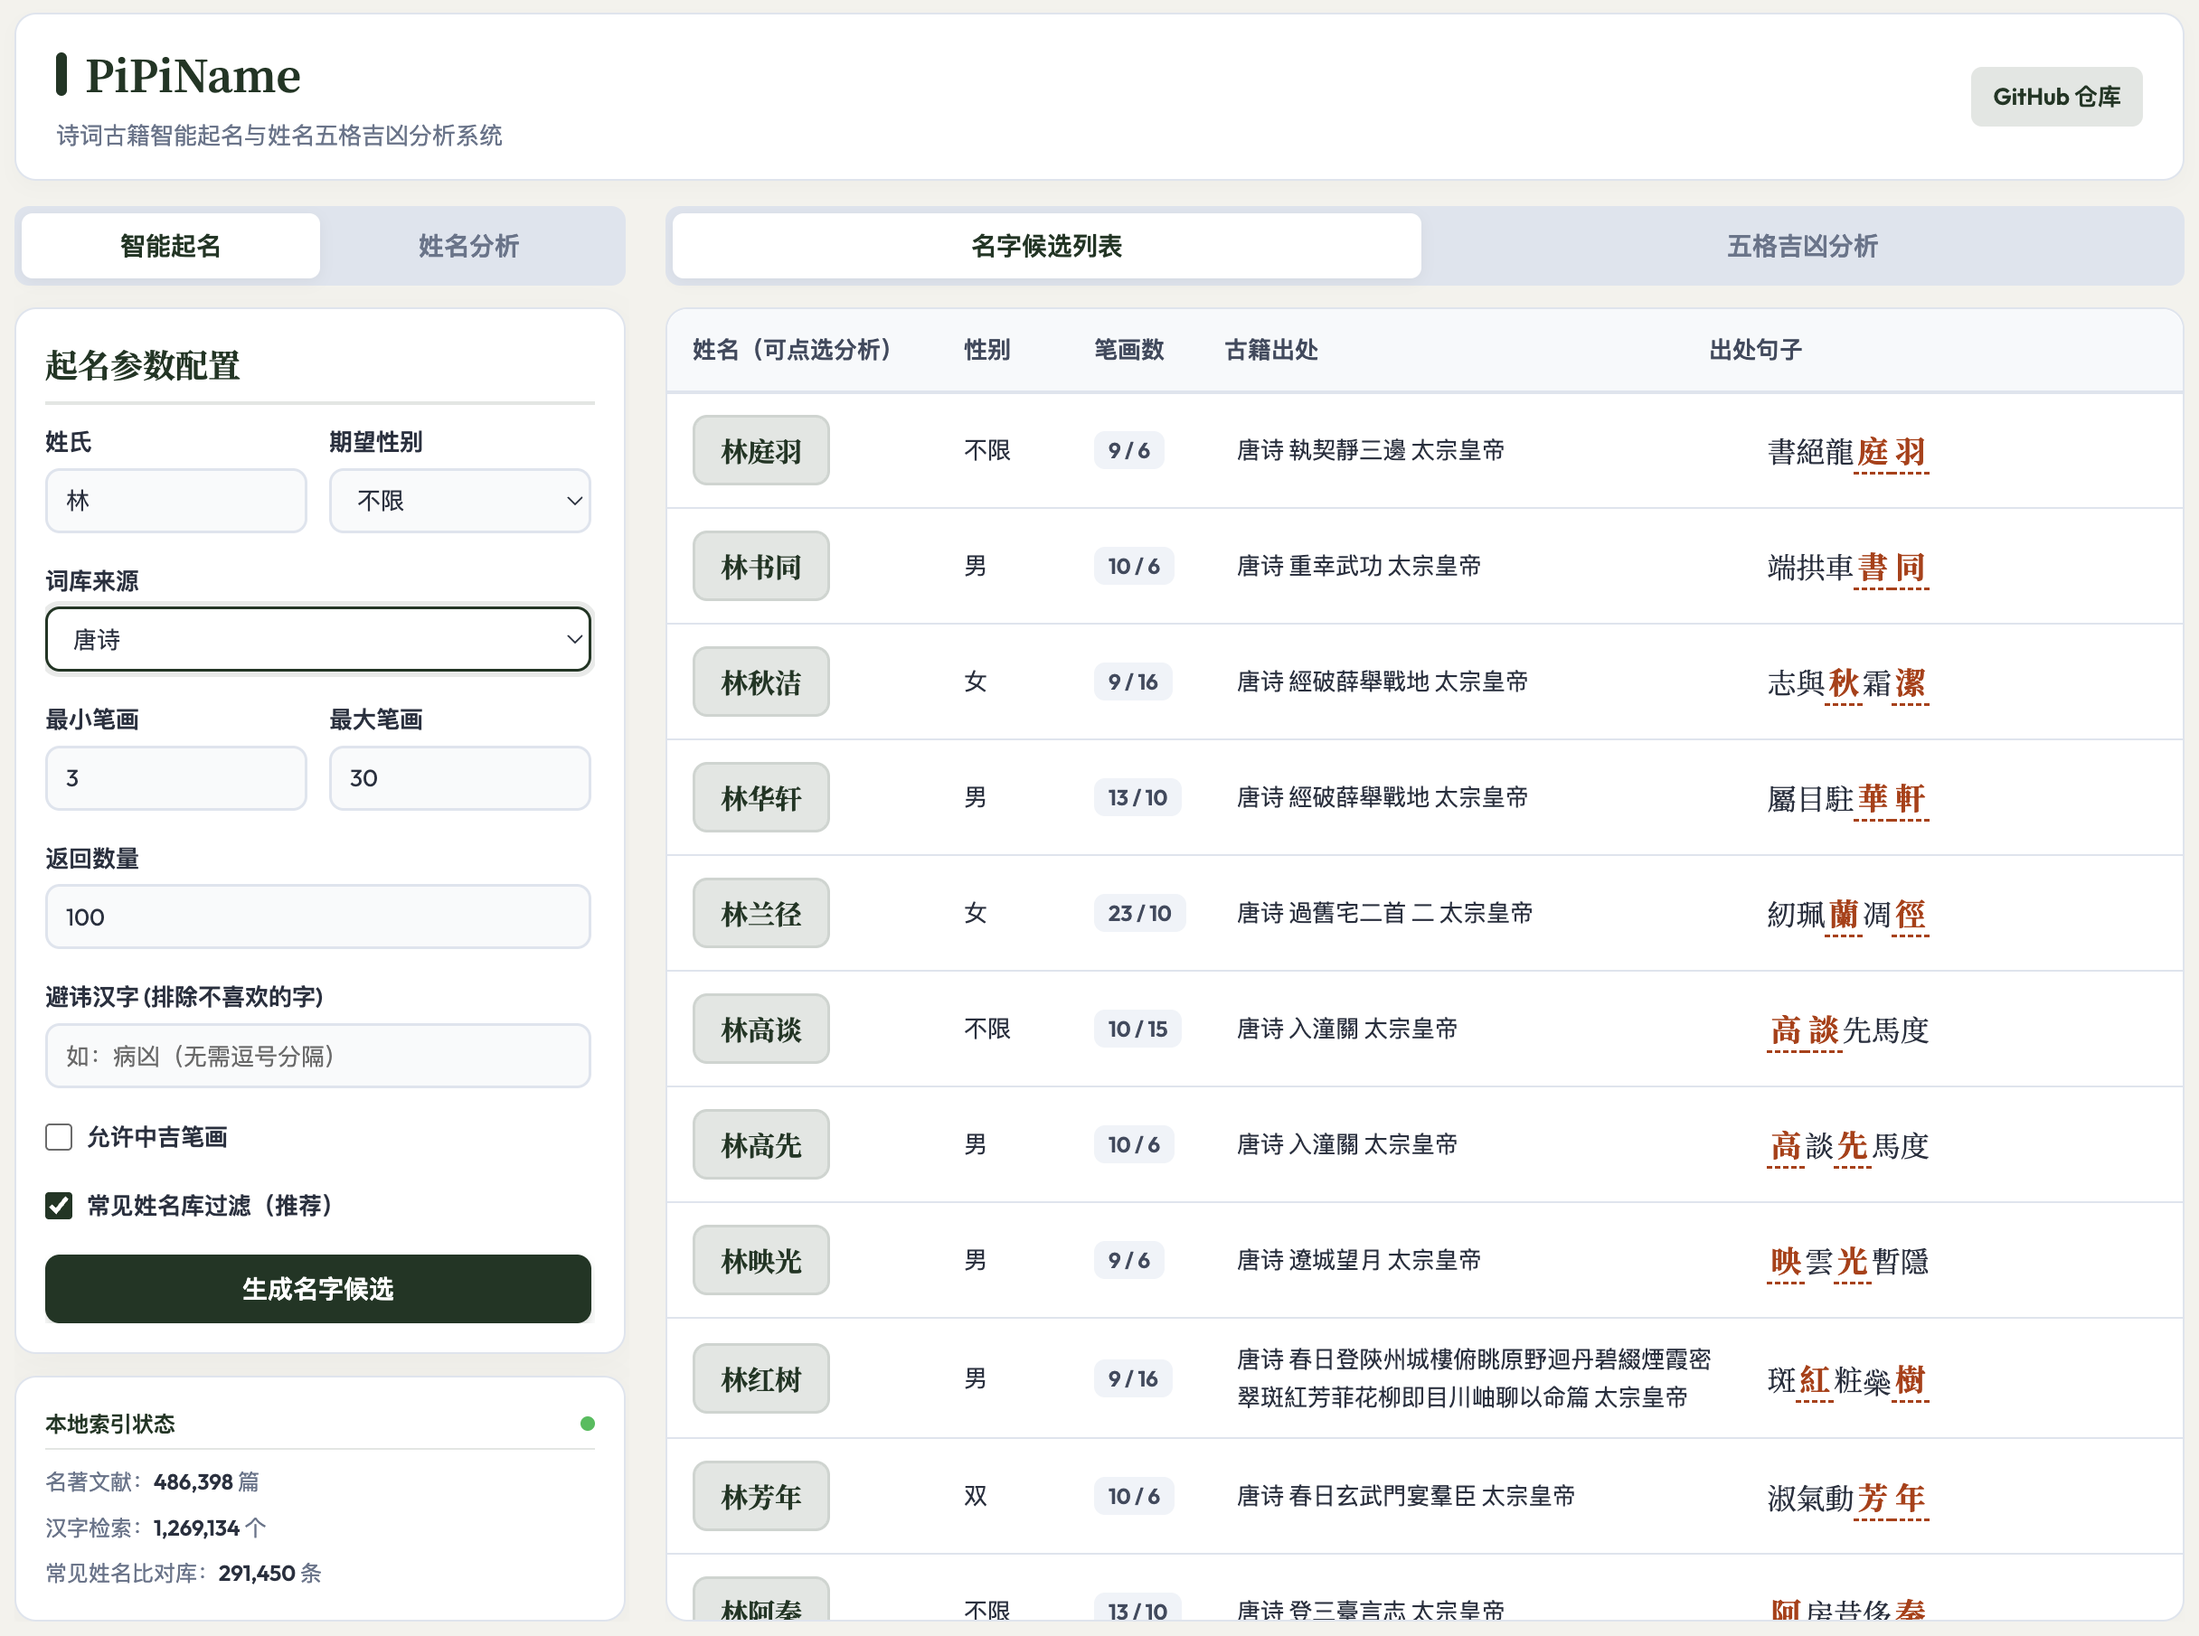
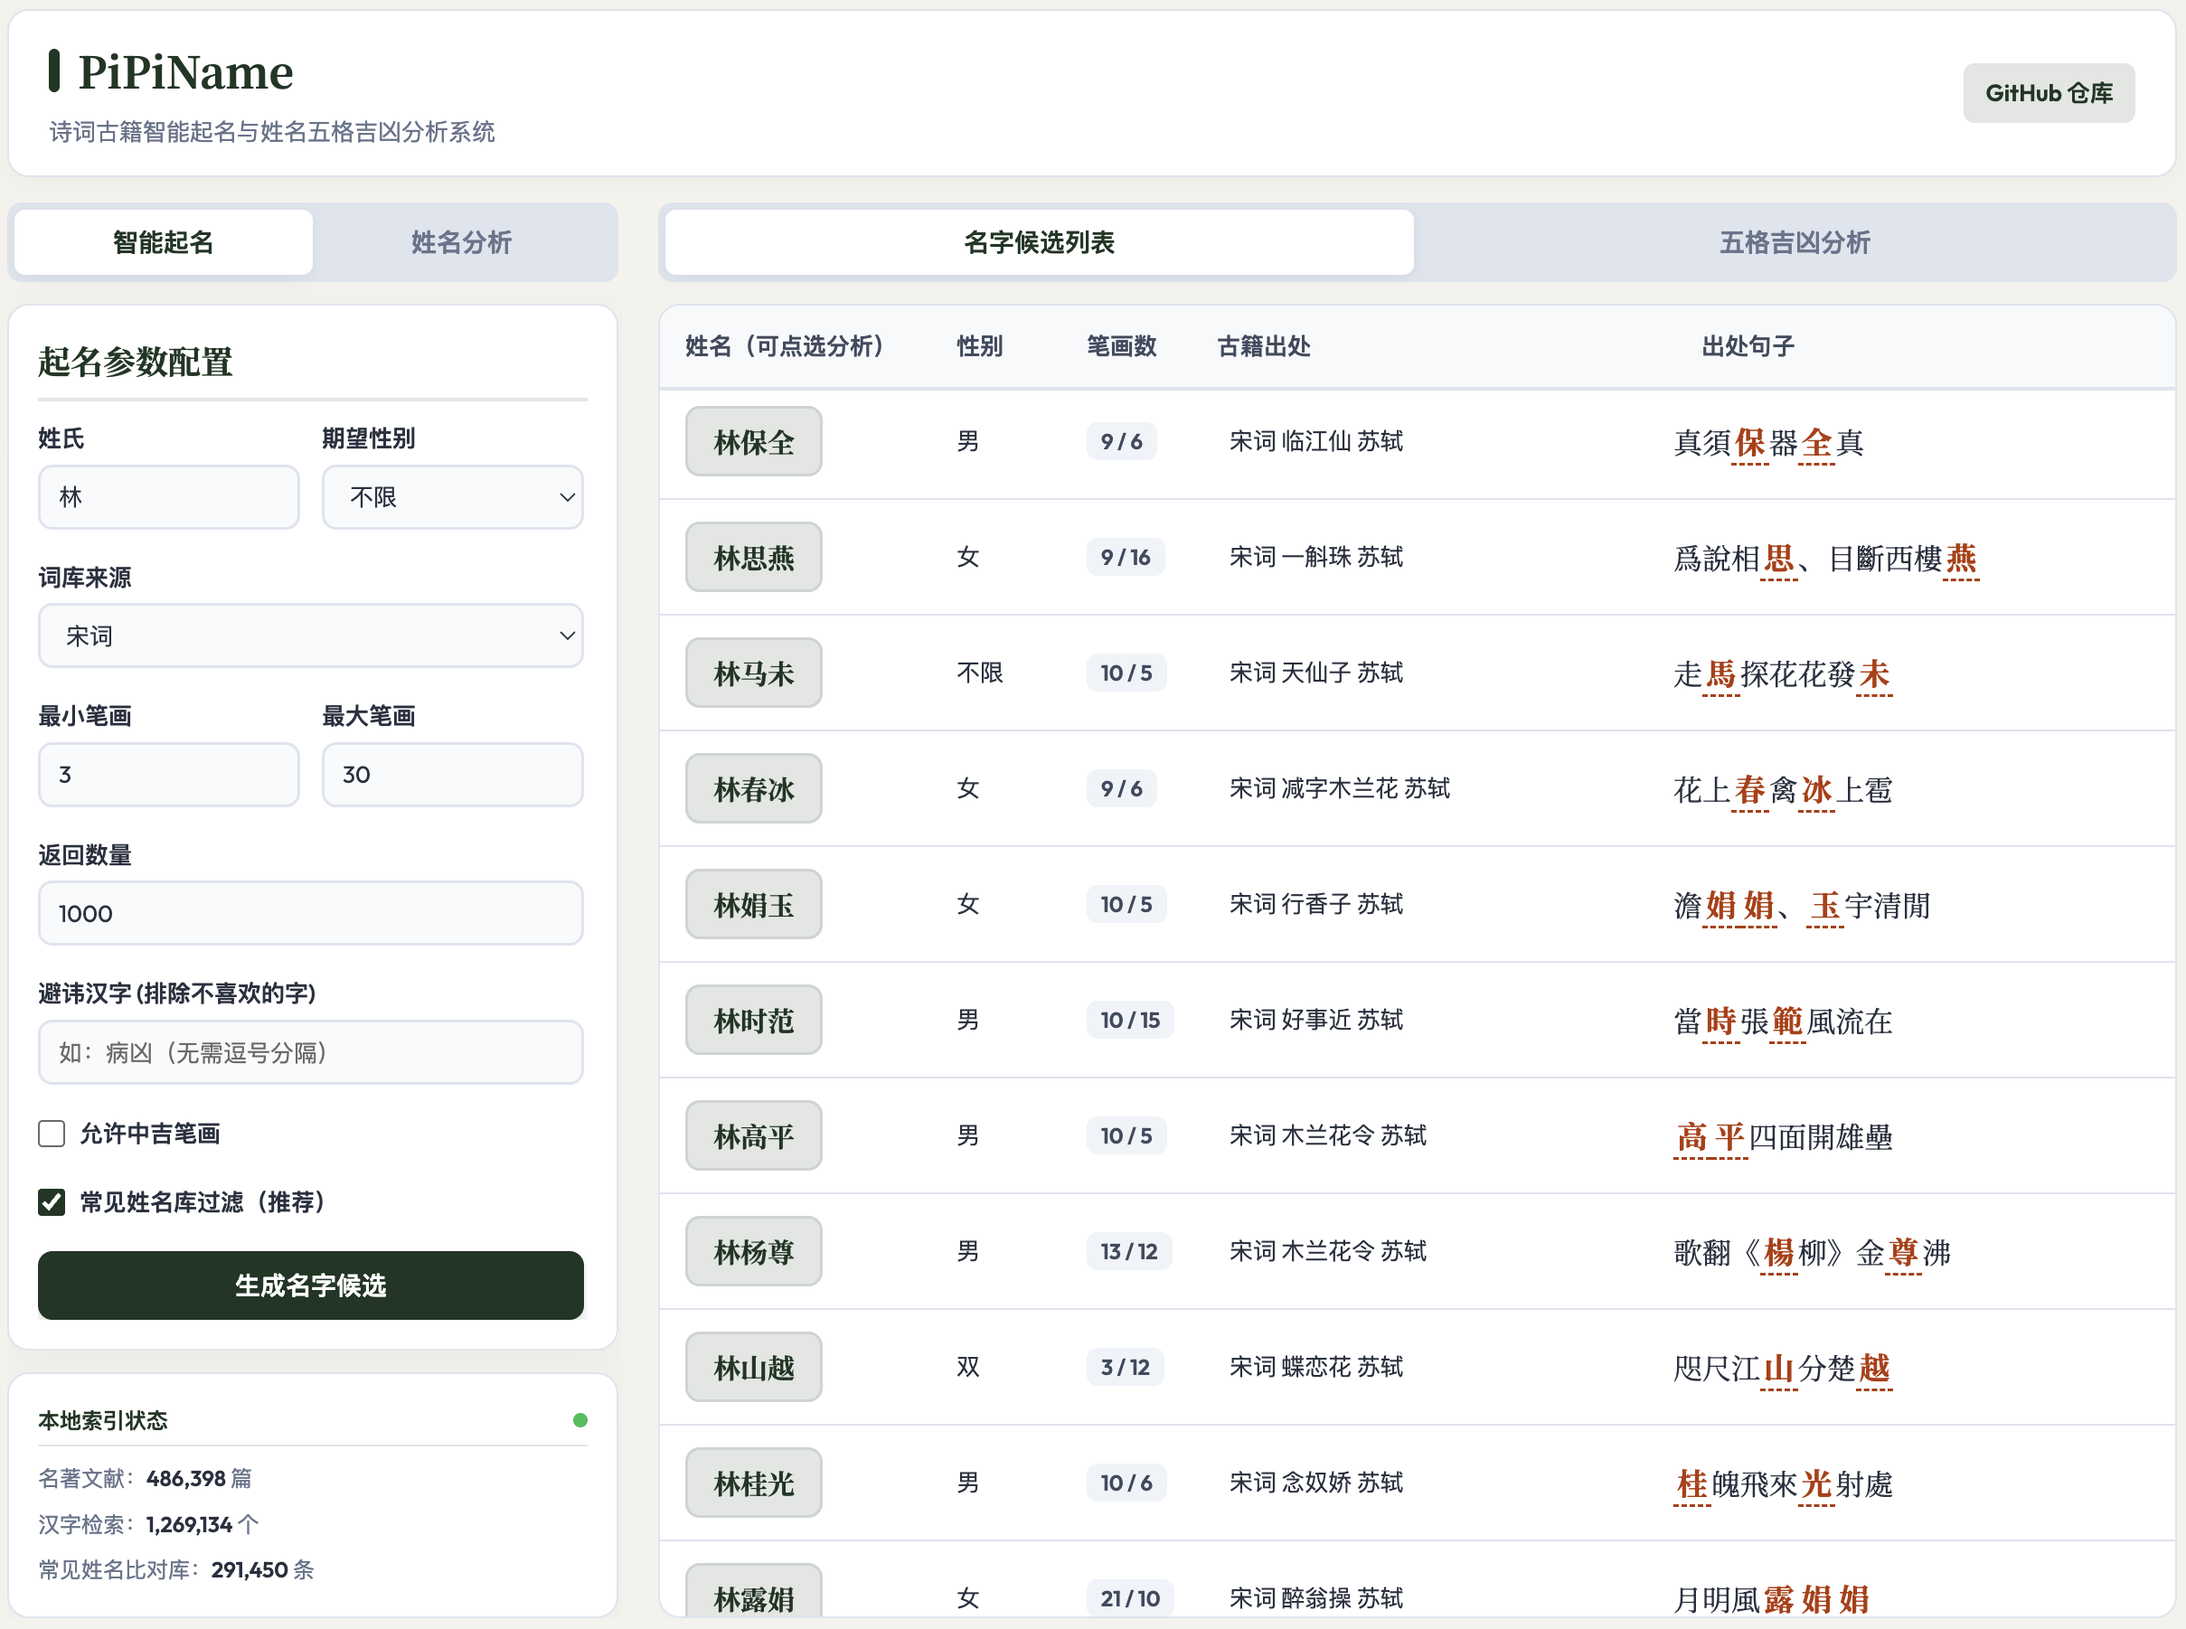
fix: 优化性别分类

diff --git a/tests/test_core_api_cli.py b/tests/test_core_api_cli.py
@@ -90,7 +90,7 @@ def test_api_endpoints():
     assert 'id="generate-health-card"' in home
     assert 'id="check-health-card"' in home
     assert "function displayGender" in home
-    assert "gender !== '未知'" in home
+    assert "!['未知', '双'].includes(gender)" in home
     assert "#generate-sidebar.active" in home
     assert "flex: 1 1 auto" in home
     assert "justify-content: space-between" in home

diff --git a/src/pipiname/api.py b/src/pipiname/api.py
@@ -1308,7 +1308,7 @@ HTML_PAGE = """
     }
 
     function displayGender(gender) {
-      return gender && gender !== '未知' ? gender : '不限';
+      return gender && !['未知', '双'].includes(gender) ? gender : '不限';
     }
 
     function formatSentence(sentence) {
